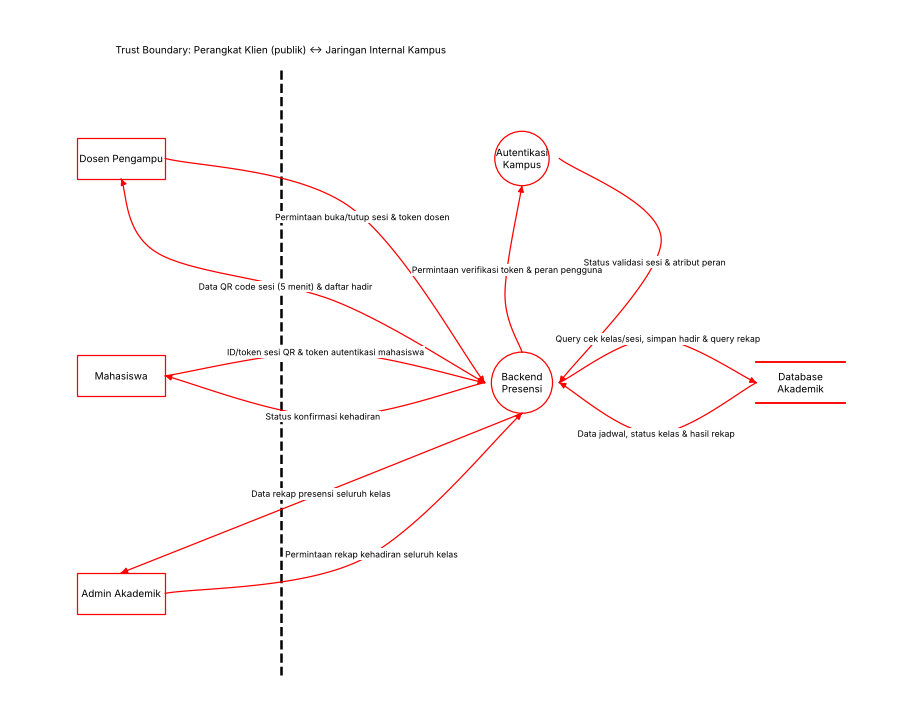
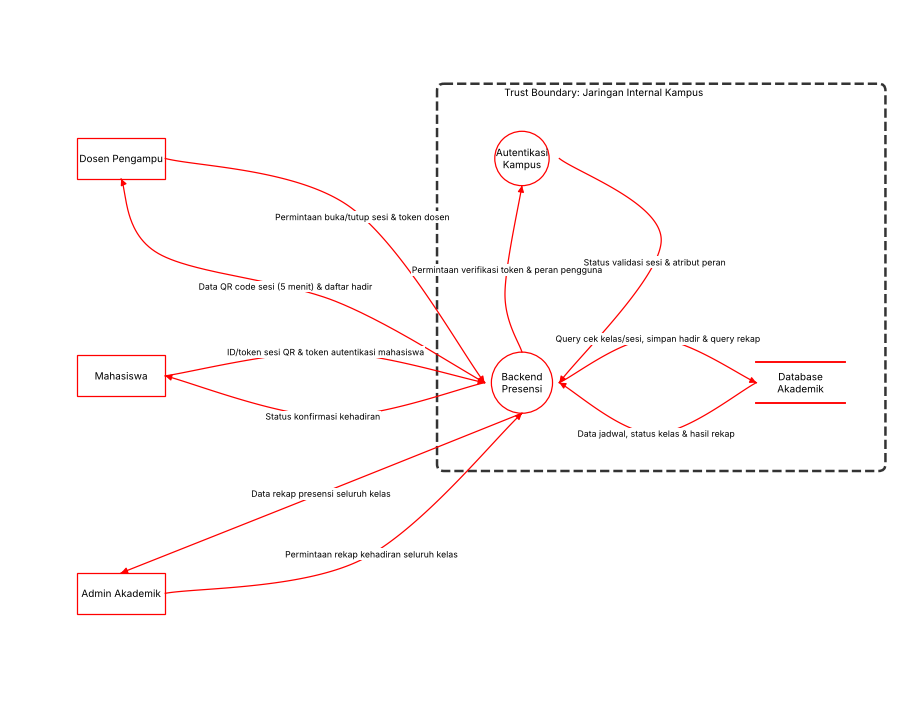
refactor(model): use paragraph threat format and boundary box

diff --git a/README.md b/README.md
@@ -33,7 +33,7 @@ Sistem presensi perkuliahan berbasis web yang memfasilitasi pencatatan kehadiran
 | **Data Store** | Database Akademik | Menyimpan data jadwal, keanggotaan kelas, sesi aktif, dan catatan kehadiran. |
 
 ### 4.2 Trust Boundary (Batas Kepercayaan)
-* **Trust Boundary: Perangkat Klien (publik) ↔ Jaringan Internal Kampus** — Memisahkan zona perangkat pengguna/publik (`Dosen Pengampu`, `Mahasiswa`, `Admin Akademik`) yang berada di luar kendali penuh institusi dengan zona layanan internal kampus (`Backend Presensi`, `Autentikasi Kampus`, `Database Akademik`).
+* **Trust Boundary: Jaringan Internal Kampus** (kotak garis putus-putus) — Memisahkan zona perangkat pengguna/publik (`Dosen Pengampu`, `Mahasiswa`, `Admin Akademik`) yang berada di luar kendali penuh institusi dengan zona layanan internal kampus (`Backend Presensi`, `Autentikasi Kampus`, `Database Akademik`).
 
 ### 4.3 Daftar Aliran Data (Data Flow)
 | Sumber | Tujuan | Label Aliran Data | Melintasi Trust Boundary |
@@ -52,27 +52,27 @@ Sistem presensi perkuliahan berbasis web yang memfasilitasi pencatatan kehadiran
 
 ## 5. Analisis Ancaman STRIDE
 
-Ancaman dimasukkan langsung ke file model Threat Dragon (tautan per elemen DFD) sehingga laporan dapat di-generate melalui fitur **Report**. Skor risiko = kemungkinan (1–3) × dampak (1–3); 1–2 rendah, 3–4 sedang, 6–9 tinggi.
+Ancaman dimasukkan langsung ke file model Threat Dragon (tautan per elemen DFD) sehingga laporan dapat di-generate melalui fitur **Report**. Skor risiko (kolom *Score*) = kemungkinan (1–3) × dampak (1–3); 1–2 rendah, 3–4 sedang, 6–9 tinggi.
 
 | ID | Ancaman | STRIDE | Elemen DFD | Skor | Risiko |
 | :--- | :--- | :--- | :--- | :---: | :---: |
-| T1 | Presensi atas nama mahasiswa lain menggunakan akun/token yang dicuri atau dititipkan | Spoofing | Mahasiswa | 6 (K2 × D3) | Tinggi |
-| T2 | Pembukaan/penutupan sesi kelas oleh pengguna yang bukan dosen pengampu | Elevation of privilege | Backend Presensi | 6 (K2 × D3) | Tinggi |
-| T3 | Pemalsuan, manipulasi, atau pemakaian ulang token QR sesi | Tampering | ID/token sesi QR & token autentikasi mahasiswa | 6 (K2 × D3) | Tinggi |
-| T4 | Perubahan catatan kehadiran di Database Akademik tanpa otorisasi | Tampering | Database Akademik | 6 (K2 × D3) | Tinggi |
-| T5 | Penyangkalan atas pembukaan/penutupan sesi, pemindaian, atau perubahan data presensi | Repudiation | Backend Presensi | 4 (K2 × D2) | Sedang |
-| T6 | Kebocoran rekap/daftar hadir kepada pihak yang tidak berwenang | Information disclosure | Data rekap presensi seluruh kelas | 6 (K2 × D3) | Tinggi |
-| T7 | Token sesi bocor melalui QR code yang difoto dan disebarkan | Information disclosure | Data QR code sesi (5 menit) & daftar hadir | 9 (K3 × D3) | Tinggi |
-| T8 | Banjir permintaan presensi/rekap yang membuat Backend Presensi lambat atau tidak tersedia | Denial of service | Backend Presensi | 6 (K2 × D3) | Tinggi |
-| T9 | Catatan hadir ganda akibat pengiriman berulang/race condition | Tampering | Query cek kelas/sesi, simpan hadir & query rekap | 4 (K2 × D2) | Sedang |
-| T10 | Layanan Autentikasi Kampus tidak tersedia saat jendela presensi 5 menit | Denial of service | Autentikasi Kampus | 4 (K2 × D2) | Sedang |
-| T11 | Pengambilalihan akun dosen untuk membuka sesi dan memantau daftar hadir | Spoofing | Dosen Pengampu | 6 (K2 × D3) | Tinggi |
-| T12 | Admin menyangkal telah mengakses atau mengunduh rekap kehadiran seluruh kelas | Repudiation | Admin Akademik | 4 (K2 × D2) | Sedang |
-| T13 | Permintaan buka/tutup sesi dipalsukan melalui CSRF dari browser dosen | Tampering | Permintaan buka/tutup sesi & token dosen | 4 (K2 × D2) | Sedang |
-| T14 | Permintaan rekap seluruh kelas tanpa batas membebani Database Akademik | Denial of service | Permintaan rekap kehadiran seluruh kelas | 4 (K2 × D2) | Sedang |
-| T15 | Pesan status presensi yang terlalu rinci membuka peluang enumerasi sesi dan keanggotaan kelas | Information disclosure | Status konfirmasi kehadiran | 2 (K2 × D1) | Rendah |
-| T16 | Token pengguna bocor saat diteruskan ke Autentikasi Kampus atau tercatat di log | Information disclosure | Permintaan verifikasi token & peran pengguna | 3 (K1 × D3) | Sedang |
-| T17 | Respons validasi token dan atribut peran dipalsukan atau diubah | Tampering | Status validasi sesi & atribut peran | 3 (K1 × D3) | Sedang |
-| T18 | Penyadapan data keanggotaan kelas dan hasil rekap pada koneksi database internal | Information disclosure | Data jadwal, status kelas & hasil rekap | 3 (K1 × D3) | Sedang |
+| T1 | Presensi atas nama mahasiswa lain menggunakan akun/token yang dicuri atau dititipkan | Spoofing | Mahasiswa | 6 | Tinggi |
+| T2 | Pembukaan/penutupan sesi kelas oleh pengguna yang bukan dosen pengampu | Elevation of privilege | Backend Presensi | 6 | Tinggi |
+| T3 | Pemalsuan, manipulasi, atau pemakaian ulang token QR sesi | Tampering | ID/token sesi QR & token autentikasi mahasiswa | 6 | Tinggi |
+| T4 | Perubahan catatan kehadiran di Database Akademik tanpa otorisasi | Tampering | Database Akademik | 6 | Tinggi |
+| T5 | Penyangkalan atas pembukaan/penutupan sesi, pemindaian, atau perubahan data presensi | Repudiation | Backend Presensi | 4 | Sedang |
+| T6 | Kebocoran rekap/daftar hadir kepada pihak yang tidak berwenang | Information disclosure | Data rekap presensi seluruh kelas | 6 | Tinggi |
+| T7 | Token sesi bocor melalui QR code yang difoto dan disebarkan | Information disclosure | Data QR code sesi (5 menit) & daftar hadir | 9 | Tinggi |
+| T8 | Banjir permintaan presensi/rekap yang membuat Backend Presensi lambat atau tidak tersedia | Denial of service | Backend Presensi | 6 | Tinggi |
+| T9 | Catatan hadir ganda akibat pengiriman berulang/race condition | Tampering | Query cek kelas/sesi, simpan hadir & query rekap | 4 | Sedang |
+| T10 | Layanan Autentikasi Kampus tidak tersedia saat jendela presensi 5 menit | Denial of service | Autentikasi Kampus | 4 | Sedang |
+| T11 | Pengambilalihan akun dosen untuk membuka sesi dan memantau daftar hadir | Spoofing | Dosen Pengampu | 6 | Tinggi |
+| T12 | Admin menyangkal telah mengakses atau mengunduh rekap kehadiran seluruh kelas | Repudiation | Admin Akademik | 4 | Sedang |
+| T13 | Permintaan buka/tutup sesi dipalsukan melalui CSRF dari browser dosen | Tampering | Permintaan buka/tutup sesi & token dosen | 4 | Sedang |
+| T14 | Permintaan rekap seluruh kelas tanpa batas membebani Database Akademik | Denial of service | Permintaan rekap kehadiran seluruh kelas | 4 | Sedang |
+| T15 | Pesan status presensi yang terlalu rinci membuka peluang enumerasi sesi dan keanggotaan kelas | Information disclosure | Status konfirmasi kehadiran | 2 | Rendah |
+| T16 | Token pengguna bocor saat diteruskan ke Autentikasi Kampus atau tercatat di log | Information disclosure | Permintaan verifikasi token & peran pengguna | 3 | Sedang |
+| T17 | Respons validasi token dan atribut peran dipalsukan atau diubah | Tampering | Status validasi sesi & atribut peran | 3 | Sedang |
+| T18 | Penyadapan data keanggotaan kelas dan hasil rekap pada koneksi database internal | Information disclosure | Data jadwal, status kelas & hasil rekap | 3 | Sedang |
 
-Skenario, dampak, asumsi, justifikasi skor, dan mitigasi lengkap setiap ancaman tersedia pada isian *Description* dan *Mitigations* di model.
+Deskripsi (skenario dan dampak) serta mitigasi lengkap setiap ancaman tersedia pada isian *Description* dan *Mitigations* di model.
